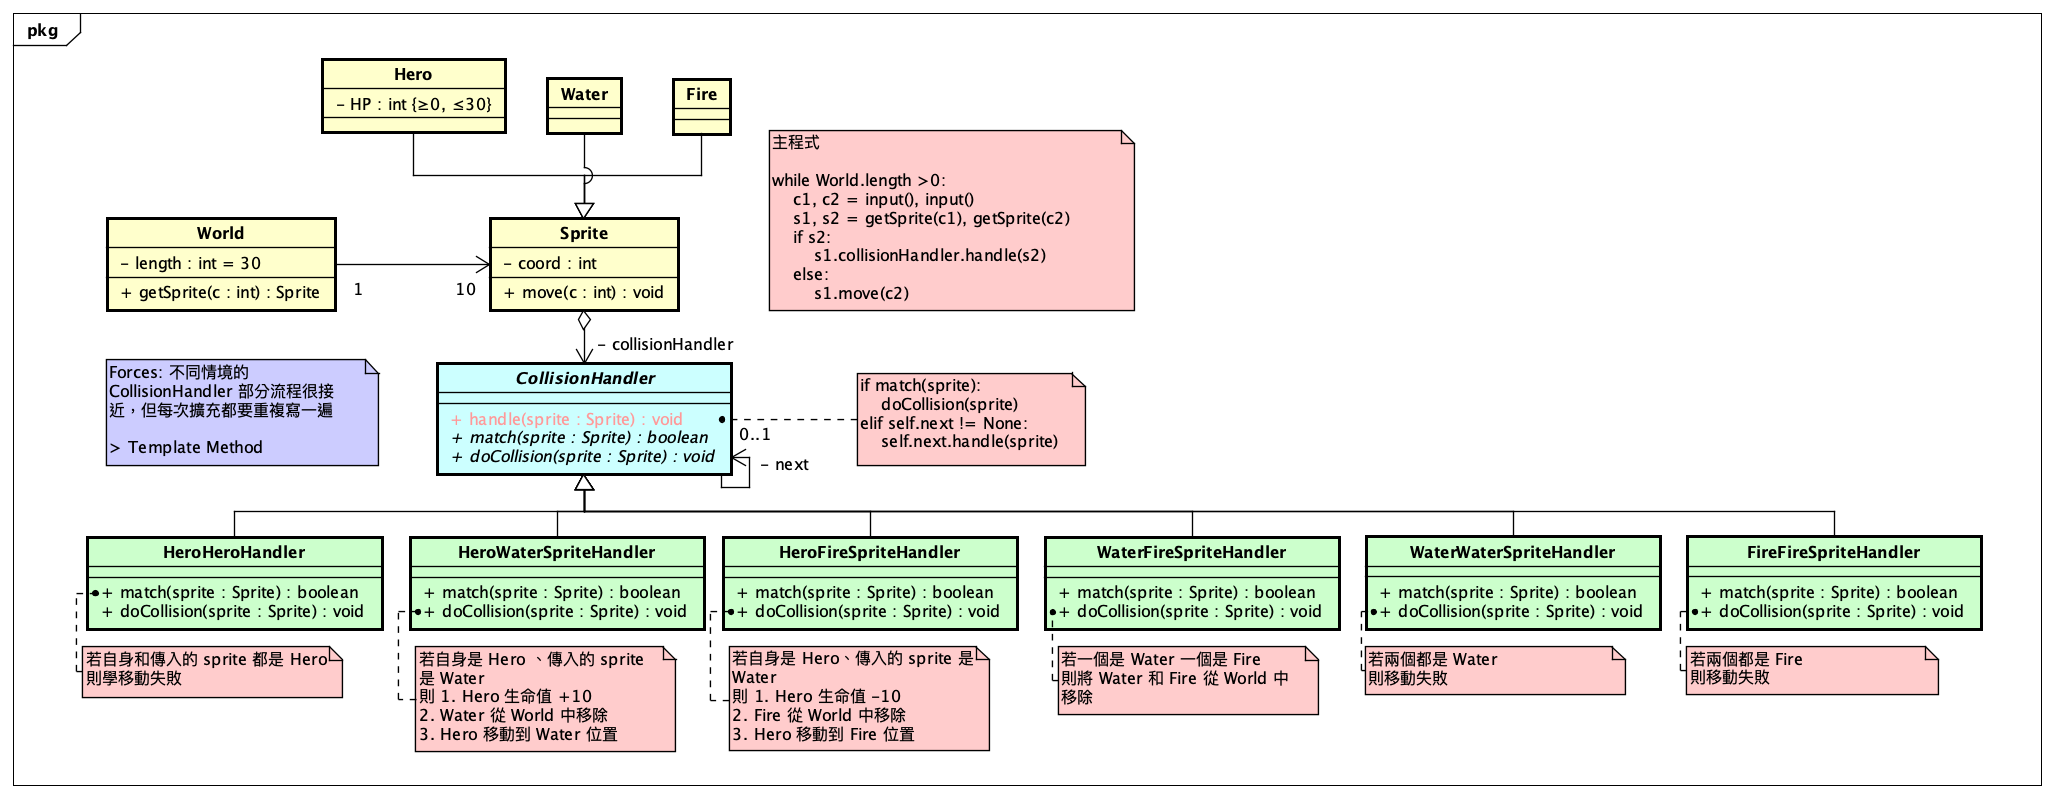
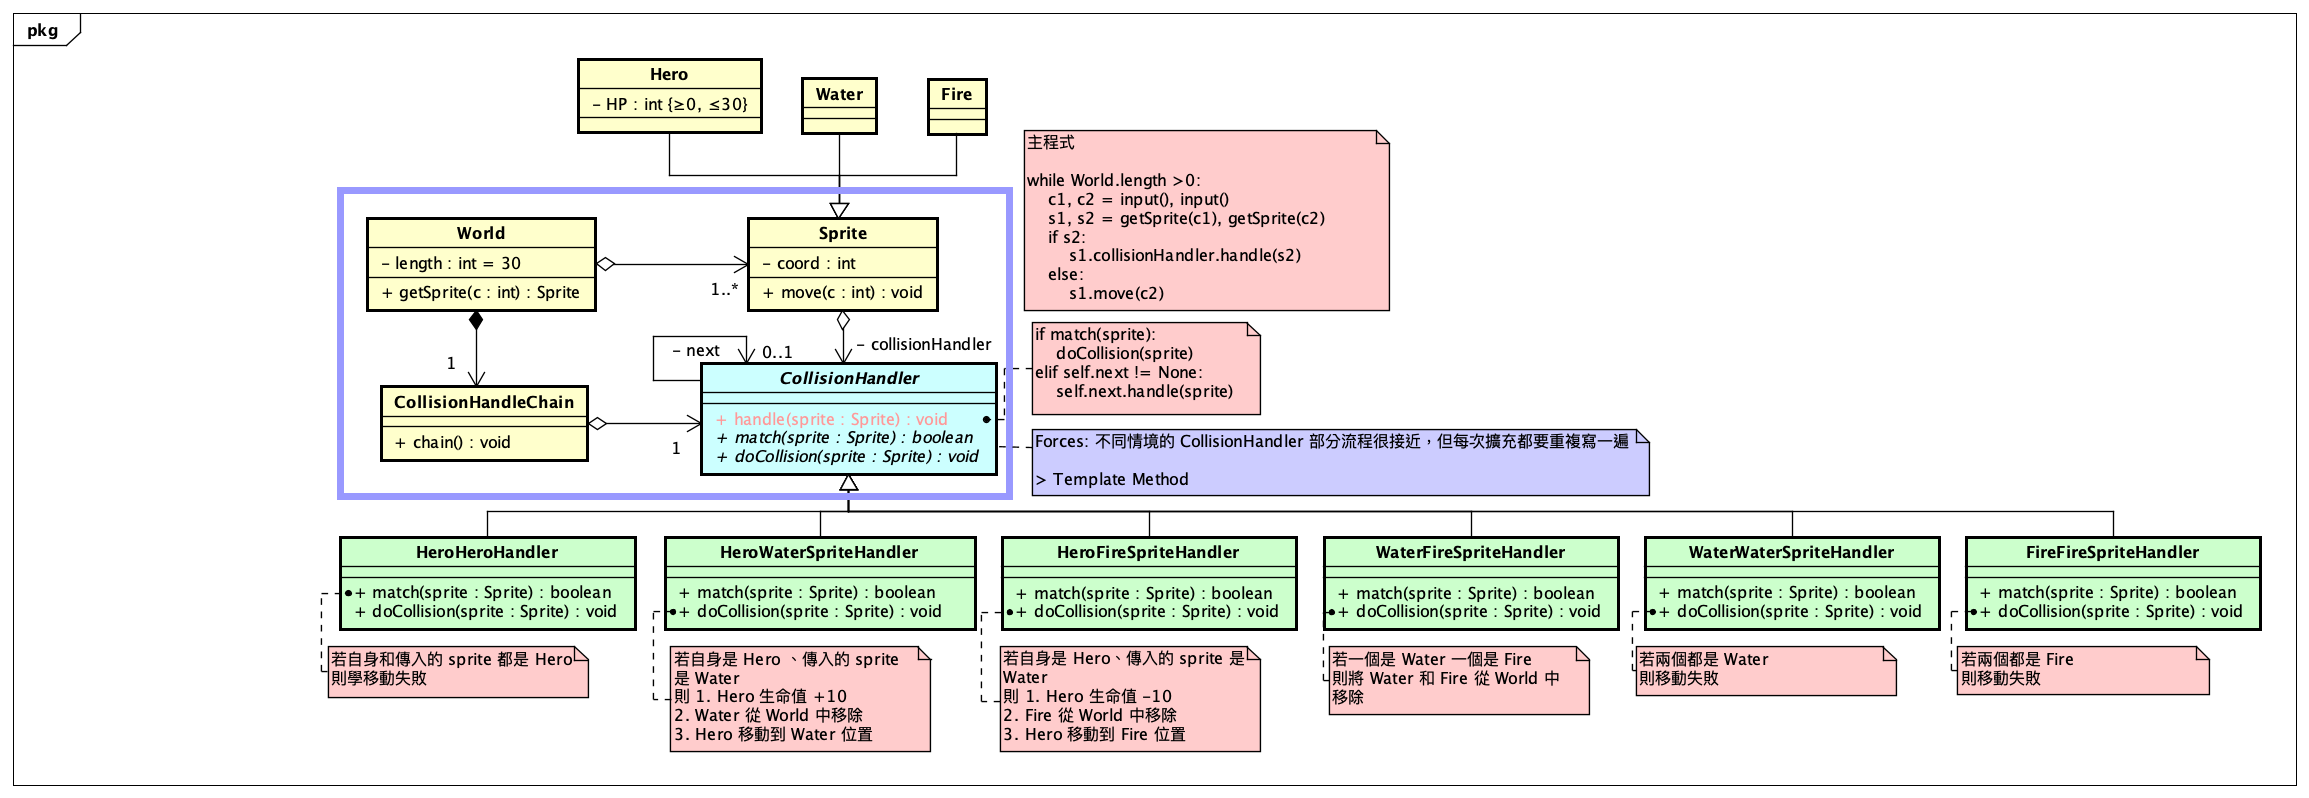
[code] Update 2.3.H

Changed region(s): [[0.0312, 0.0602, 0.9971, 0.9624], [0.9348, 0.812, 0.9659, 0.8722], [0.0, 0.0301, 0.0312, 0.0602]]

diff --git a/2.3.H/code/world.py b/2.3.H/code/world.py
@@ -1,7 +1,6 @@
 """定義世界資訊"""
-from typing import Union, Any
+from typing import Union
 from collections import defaultdict
-import numpy as np
 import random
 
 from sprite import Sprite, Hero, Water, Fire
@@ -13,18 +12,13 @@ class World:
 
     def __init__(self) -> None:
         self._length = 30
-        self._sprites = defaultdict(lambda: None)
-        self.collisionHandleChain = CollisionHandleChain()
-        self.collisionHandleChain.chain()
+        self._sprites = list()
+        self._sprites_position_dict = defaultdict(lambda: None)
+        self._collisionHandleChain = CollisionHandleChain()
+        self._collisionHandleChain.chain()
 
     def __repr__(self) -> str:
         return f"World ({self._length})"
-
-    def __getattr__(self, __name: str):
-        return self.__dict__[f"__{__name}"]
-
-    def __setattr__(self, __name: str, __value: Any) -> None:
-        self.__dict__[f"__{__name}"] = __value
 
     @property
     def length(self):
@@ -33,49 +27,62 @@ class World:
 
     @property
     def sprites(self):
-        """取得世界所有生物及其座標"""
+        """取得世界所有生物"""
         return self._sprites
+
+    @property
+    def sprites_position_dict(self):
+        """取得世界所有生物及其座標"""
+        return self._sprites_position_dict
 
     def init(self, mode: str) -> None:
         if mode == "random":
-            _positions = list(
-                set(
-                    np.random.randint(
-                        low=0,
-                        high=self._length - 1,
-                        size=random.randint(1, self._length - 1),
-                    ).tolist()
-                )
+            _positions = random.sample(
+                range(self._length - 1), random.randint(1, self._length - 1)
             )
             for i in _positions:
                 sprite_type = random.choice([Hero, Water, Fire])
-                c = sprite_type(coord=i)
-                self.add_sprite(coord=i, sprite=c)
+                self.add_sprite(sprite=sprite_type(coord=i))
         else:
             raise Warning("this mode hasn't been set before")
 
+        self.arrange_sprites()
+
     def get_sprite(self, coord: int) -> Union[Sprite, None]:
         """從座標取得生物"""
-        return self._sprites[coord]
+        return self._sprites_position_dict[coord]
 
-    def add_sprite(self, coord: int, sprite: Sprite) -> None:
-        """在指定坐標上放置生物"""
-        assert isinstance(coord, int) and coord >= 0 and coord < 30, TypeError(
-            "coord 須為 0 ~ 29 正整數"
+    def arrange_sprites(self) -> None:
+        """將串列中的生物位置轉成索引字典"""
+        self._sprites_position_dict = defaultdict(
+            lambda: None,
+            sorted({item.coord: item for item in self._sprites}.items(), reverse=False),
         )
-        if not self._sprites[coord]:
-            self._sprites[coord] = sprite
-        else:
-            raise Exception(f"{coord} already has a sprite: {sprite}")
+
+    def add_sprite(self, sprite: Sprite) -> None:
+        """加入生物到串列"""
+        self._sprites.append(sprite)
+        # """在指定坐標上放置生物"""
+        # position = sprite.coord
+        # if not self._sprites_position_dict[position]:
+        #     self._sprites_position_dict[position] = sprite
+        # else:
+        #     raise Exception(f"The position: {position} already has a sprite: {sprite}")
 
     def move_sprite(self, source_coord: int, target_coord: int):
-        if not self._sprites[target_coord]:
-            self._sprites[target_coord] = self._sprites[source_coord]
-            del self._sprites[source_coord]
+        """將生物移動到指定坐標上"""
+        source_sprite, target_sprite = (
+            self._sprites_position_dict[source_coord],
+            self._sprites_position_dict[target_coord],
+        )
+        if not target_sprite:
+            source_sprite.coord = target_coord
+            self._sprites_position_dict[target_coord] = source_sprite
+            self._sprites_position_dict[source_coord] = None
         else:
             raise Exception(
-                f"target_coord still has sprite: {self._sprites[target_coord]} ({target_coord})"
+                f"target_coord still has sprite: {target_sprite} ({target_coord})"
             )
 
     def remove_sprite(self, coord: int) -> None:
-        del self._sprites[coord]
+        del self._sprites_position_dict[coord]

diff --git a/2.3.H/code/collisionHandler.py b/2.3.H/code/collisionHandler.py
@@ -44,17 +44,36 @@ class HeroWaterHandler(CollisionHandler):
     def __init__(self) -> None:
         super().__init__()
 
-    def handle(
-        self, source_sprite: Sprite, target_sprite: Sprite, world: "World"
-    ) -> None:
-        if isinstance(source_sprite, Hero) and isinstance(target_sprite, Water):
-            source_sprite.HP += 10
-            target_coord = target_sprite.coord
-            world.remove_sprite(coord=target_coord)
+    def operation(
+        self, source_sprite: Sprite, target_sprite: Sprite, world: "World", move: bool
+    ):
+        source_sprite.HP += 10
+        target_coord = target_sprite.coord
+        world.remove_sprite(coord=target_coord)
+        if move:
             world.move_sprite(
                 source_coord=source_sprite.coord, target_coord=target_coord
             )
             source_sprite.coord = target_coord
+
+    def handle(
+        self, source_sprite: Sprite, target_sprite: Sprite, world: "World"
+    ) -> None:
+        if isinstance(source_sprite, Hero) and isinstance(target_sprite, Water):
+            self.operation(
+                source_sprite=source_sprite,
+                target_sprite=target_sprite,
+                world=world,
+                move=True,
+            )
+
+        elif isinstance(target_sprite, Hero) and isinstance(source_sprite, Water):
+            self.operation(
+                source_sprite=target_sprite,
+                target_sprite=source_sprite,
+                world=world,
+                move=False,
+            )
         else:
             self.next.handle(
                 source_sprite=source_sprite, target_sprite=target_sprite, world=world
@@ -65,17 +84,35 @@ class HeroFireHandler(CollisionHandler):
     def __init__(self) -> None:
         super().__init__()
 
-    def handle(
-        self, source_sprite: Sprite, target_sprite: Sprite, world: "World"
-    ) -> None:
-        if isinstance(source_sprite, Hero) and isinstance(target_sprite, Fire):
-            source_sprite.HP -= 10
-            target_coord = target_sprite.coord
-            world.remove_sprite(coord=target_coord)
+    def operation(
+        self, source_sprite: Sprite, target_sprite: Sprite, world: "World", move: bool
+    ):
+        source_sprite.HP -= 10
+        target_coord = target_sprite.coord
+        world.remove_sprite(coord=target_coord)
+        if move:
             world.move_sprite(
                 source_coord=source_sprite.coord, target_coord=target_coord
             )
             source_sprite.coord = target_coord
+
+    def handle(
+        self, source_sprite: Sprite, target_sprite: Sprite, world: "World"
+    ) -> None:
+        if isinstance(source_sprite, Hero) and isinstance(target_sprite, Fire):
+            self.operation(
+                source_sprite=source_sprite,
+                target_sprite=target_sprite,
+                world=world,
+                move=True,
+            )
+        elif isinstance(target_sprite, Hero) and isinstance(source_sprite, Fire):
+            self.operation(
+                source_sprite=target_sprite,
+                target_sprite=source_sprite,
+                world=world,
+                move=False,
+            )
         else:
             self.next.handle(
                 source_sprite=source_sprite, target_sprite=target_sprite, world=world

diff --git a/2.3.H/code/main.py b/2.3.H/code/main.py
@@ -6,18 +6,18 @@ from world import World
 if __name__ == "__main__":
     world = World()
     world.init(mode="random")
-    print(world.sprites)
+    print(world._sprites_position_dict)
 
-    while len(world.sprites):
+    while len(world._sprites_position_dict):
         c1 = int(input("Input a coord of a sprite (int): "))
         c2 = int(input("Move to another coord (int): "))
         s1, s2 = world.get_sprite(coord=c1), world.get_sprite(coord=c2)
         assert s1.coord == c1
         if s2 is not None:
-            world.collisionHandleChain.herohero.handle(
+            world._collisionHandleChain.herohero.handle(
                 source_sprite=s1, target_sprite=s2, world=world
             )
         else:
             world.move_sprite(source_coord=s1.coord, target_coord=c2)
 
-        print(world.sprites)
+        print(world._sprites_position_dict)

diff --git a/2.3.H/code/sprite.py b/2.3.H/code/sprite.py
@@ -14,12 +14,6 @@ class Sprite:
     def __repr__(self) -> str:
         return f"{type(self)} (x: {self._coord})"
 
-    def __getattr__(self, __name: str):
-        return self.__dict__[f"__{__name}"]
-
-    def __setattr__(self, __name: str, __value: Any) -> None:
-        self.__dict__[f"__{__name}"] = __value
-
     @property
     def coord(self):
         """取得生物座標"""
@@ -45,7 +39,11 @@ class Hero(Sprite):
 
     @HP.setter
     def HP(self, hp: int):
-        assert isinstance(hp, int) and hp >= 0 and hp <= 30
+        if hp < 0:
+            hp = 0
+        elif hp > 30:
+            hp = 30
+        assert isinstance(hp, int)
         self._HP = hp
 
 

diff --git a/2.3.H/README.md b/2.3.H/README.md
@@ -1,0 +1,51 @@
+# [2.3.H] 碰撞案例 (Chain of Responsibility 責任鏈模式)
+
+> Author: @A-baoYang (jyabaodsda)
+
+### Object Oriented Analysis & Design (OOA/D)
+
+![](336-2.3.H-OOAD.png)
+
+### Run 
+```bash
+cd MatchmakingSystem
+python main.py
+```
+
+- Logging
+
+```bash
+defaultdict(<function World.arrange_sprites.<locals>.<lambda> at 0x7f84ea9d29d0>, {1: <class 'sprite.Water'> (x: 1), 2: <class 'sprite.Fire'> (x: 2), 4: <class 'sprite.Hero'> (x: 4), 5: <class 'sprite.Fire'> (x: 5), 7: <class 'sprite.Hero'> (x: 7), 8: <class 'sprite.Fire'> (x: 8), 9: <class 'sprite.Water'> (x: 9), 10: <class 'sprite.Water'> (x: 10), 11: <class 'sprite.Fire'> (x: 11), 12: <class 'sprite.Fire'> (x: 12), 13: <class 'sprite.Water'> (x: 13), 14: <class 'sprite.Hero'> (x: 14), 15: <class 'sprite.Hero'> (x: 15), 16: <class 'sprite.Fire'> (x: 16), 17: <class 'sprite.Hero'> (x: 17), 19: <class 'sprite.Water'> (x: 19), 20: <class 'sprite.Fire'> (x: 20), 21: <class 'sprite.Fire'> (x: 21), 22: <class 'sprite.Fire'> (x: 22), 23: <class 'sprite.Hero'> (x: 23), 25: <class 'sprite.Hero'> (x: 25), 27: <class 'sprite.Water'> (x: 27), 28: <class 'sprite.Water'> (x: 28)})
+Input a coord of a sprite (int): 1
+Move to another coord (int): 4
+defaultdict(<function World.arrange_sprites.<locals>.<lambda> at 0x7f84ea9d29d0>, {2: <class 'sprite.Fire'> (x: 2), 4: None, 5: <class 'sprite.Fire'> (x: 5), 7: <class 'sprite.Hero'> (x: 7), 8: <class 'sprite.Fire'> (x: 8), 9: <class 'sprite.Water'> (x: 9), 10: <class 'sprite.Water'> (x: 10), 11: <class 'sprite.Fire'> (x: 11), 12: <class 'sprite.Fire'> (x: 12), 13: <class 'sprite.Water'> (x: 13), 14: <class 'sprite.Hero'> (x: 14), 15: <class 'sprite.Hero'> (x: 15), 16: <class 'sprite.Fire'> (x: 16), 17: <class 'sprite.Hero'> (x: 17), 19: <class 'sprite.Water'> (x: 19), 20: <class 'sprite.Fire'> (x: 20), 21: <class 'sprite.Fire'> (x: 21), 22: <class 'sprite.Fire'> (x: 22), 23: <class 'sprite.Hero'> (x: 23), 25: <class 'sprite.Hero'> (x: 25), 27: <class 'sprite.Water'> (x: 27), 28: <class 'sprite.Water'> (x: 28), 1: <class 'sprite.Hero'> (x: 1)})
+Input a coord of a sprite (int): ^CTraceback (most recent call last):
+  File "main.py", line 12, in <module>
+    c1 = int(input("Input a coord of a sprite (int): "))
+KeyboardInterrupt
+
+(base) jiunyiyangde-MacBook-Pro:code jiunyiyang$ python main.py 
+defaultdict(<function World.arrange_sprites.<locals>.<lambda> at 0x7fc686adce50>, {0: <class 'sprite.Hero'> (x: 0), 1: <class 'sprite.Hero'> (x: 1), 2: <class 'sprite.Water'> (x: 2), 3: <class 'sprite.Fire'> (x: 3), 4: <class 'sprite.Hero'> (x: 4), 7: <class 'sprite.Hero'> (x: 7), 8: <class 'sprite.Water'> (x: 8), 11: <class 'sprite.Fire'> (x: 11), 12: <class 'sprite.Fire'> (x: 12), 14: <class 'sprite.Water'> (x: 14), 17: <class 'sprite.Water'> (x: 17), 18: <class 'sprite.Fire'> (x: 18), 20: <class 'sprite.Fire'> (x: 20), 22: <class 'sprite.Water'> (x: 22), 23: <class 'sprite.Fire'> (x: 23), 24: <class 'sprite.Water'> (x: 24), 26: <class 'sprite.Water'> (x: 26)})
+Input a coord of a sprite (int): 2
+Move to another coord (int): 1
+defaultdict(<function World.arrange_sprites.<locals>.<lambda> at 0x7fc686adce50>, {0: <class 'sprite.Hero'> (x: 0), 1: None, 3: <class 'sprite.Fire'> (x: 3), 4: <class 'sprite.Hero'> (x: 4), 7: <class 'sprite.Hero'> (x: 7), 8: <class 'sprite.Water'> (x: 8), 11: <class 'sprite.Fire'> (x: 11), 12: <class 'sprite.Fire'> (x: 12), 14: <class 'sprite.Water'> (x: 14), 17: <class 'sprite.Water'> (x: 17), 18: <class 'sprite.Fire'> (x: 18), 20: <class 'sprite.Fire'> (x: 20), 22: <class 'sprite.Water'> (x: 22), 23: <class 'sprite.Fire'> (x: 23), 24: <class 'sprite.Water'> (x: 24), 26: <class 'sprite.Water'> (x: 26), 2: <class 'sprite.Hero'> (x: 2)})
+Input a coord of a sprite (int): ^[[A^CTraceback (most recent call last):
+  File "main.py", line 12, in <module>
+    c1 = int(input("Input a coord of a sprite (int): "))
+KeyboardInterrupt
+
+(base) jiunyiyangde-MacBook-Pro:code jiunyiyang$ python main.py 
+defaultdict(<function World.arrange_sprites.<locals>.<lambda> at 0x7f93976d29d0>, {0: <class 'sprite.Hero'> (x: 0), 1: <class 'sprite.Fire'> (x: 1), 2: <class 'sprite.Fire'> (x: 2), 3: <class 'sprite.Hero'> (x: 3), 5: <class 'sprite.Fire'> (x: 5), 6: <class 'sprite.Water'> (x: 6), 7: <class 'sprite.Fire'> (x: 7), 8: <class 'sprite.Water'> (x: 8), 9: <class 'sprite.Fire'> (x: 9), 10: <class 'sprite.Water'> (x: 10), 11: <class 'sprite.Water'> (x: 11), 14: <class 'sprite.Fire'> (x: 14), 15: <class 'sprite.Fire'> (x: 15), 16: <class 'sprite.Water'> (x: 16), 17: <class 'sprite.Water'> (x: 17), 18: <class 'sprite.Water'> (x: 18), 20: <class 'sprite.Hero'> (x: 20), 21: <class 'sprite.Hero'> (x: 21), 23: <class 'sprite.Water'> (x: 23), 25: <class 'sprite.Hero'> (x: 25), 26: <class 'sprite.Hero'> (x: 26), 27: <class 'sprite.Water'> (x: 27), 28: <class 'sprite.Fire'> (x: 28)})
+Input a coord of a sprite (int): 1
+Move to another coord (int): 0
+defaultdict(<function World.arrange_sprites.<locals>.<lambda> at 0x7f93976d29d0>, {0: <class 'sprite.Hero'> (x: 0), 2: <class 'sprite.Fire'> (x: 2), 3: <class 'sprite.Hero'> (x: 3), 5: <class 'sprite.Fire'> (x: 5), 6: <class 'sprite.Water'> (x: 6), 7: <class 'sprite.Fire'> (x: 7), 8: <class 'sprite.Water'> (x: 8), 9: <class 'sprite.Fire'> (x: 9), 10: <class 'sprite.Water'> (x: 10), 11: <class 'sprite.Water'> (x: 11), 14: <class 'sprite.Fire'> (x: 14), 15: <class 'sprite.Fire'> (x: 15), 16: <class 'sprite.Water'> (x: 16), 17: <class 'sprite.Water'> (x: 17), 18: <class 'sprite.Water'> (x: 18), 20: <class 'sprite.Hero'> (x: 20), 21: <class 'sprite.Hero'> (x: 21), 23: <class 'sprite.Water'> (x: 23), 25: <class 'sprite.Hero'> (x: 25), 26: <class 'sprite.Hero'> (x: 26), 27: <class 'sprite.Water'> (x: 27), 28: <class 'sprite.Fire'> (x: 28)})
+Input a coord of a sprite (int): 18
+Move to another coord (int): 20
+defaultdict(<function World.arrange_sprites.<locals>.<lambda> at 0x7f93976d29d0>, {0: <class 'sprite.Hero'> (x: 0), 2: <class 'sprite.Fire'> (x: 2), 3: <class 'sprite.Hero'> (x: 3), 5: <class 'sprite.Fire'> (x: 5), 6: <class 'sprite.Water'> (x: 6), 7: <class 'sprite.Fire'> (x: 7), 8: <class 'sprite.Water'> (x: 8), 9: <class 'sprite.Fire'> (x: 9), 10: <class 'sprite.Water'> (x: 10), 11: <class 'sprite.Water'> (x: 11), 14: <class 'sprite.Fire'> (x: 14), 15: <class 'sprite.Fire'> (x: 15), 16: <class 'sprite.Water'> (x: 16), 17: <class 'sprite.Water'> (x: 17), 20: <class 'sprite.Hero'> (x: 20), 21: <class 'sprite.Hero'> (x: 21), 23: <class 'sprite.Water'> (x: 23), 25: <class 'sprite.Hero'> (x: 25), 26: <class 'sprite.Hero'> (x: 26), 27: <class 'sprite.Water'> (x: 27), 28: <class 'sprite.Fire'> (x: 28)})
+Input a coord of a sprite (int): 0
+Move to another coord (int): 2
+defaultdict(<function World.arrange_sprites.<locals>.<lambda> at 0x7f93976d29d0>, {0: None, 3: <class 'sprite.Hero'> (x: 3), 5: <class 'sprite.Fire'> (x: 5), 6: <class 'sprite.Water'> (x: 6), 7: <class 'sprite.Fire'> (x: 7), 8: <class 'sprite.Water'> (x: 8), 9: <class 'sprite.Fire'> (x: 9), 10: <class 'sprite.Water'> (x: 10), 11: <class 'sprite.Water'> (x: 11), 14: <class 'sprite.Fire'> (x: 14), 15: <class 'sprite.Fire'> (x: 15), 16: <class 'sprite.Water'> (x: 16), 17: <class 'sprite.Water'> (x: 17), 20: <class 'sprite.Hero'> (x: 20), 21: <class 'sprite.Hero'> (x: 21), 23: <class 'sprite.Water'> (x: 23), 25: <class 'sprite.Hero'> (x: 25), 26: <class 'sprite.Hero'> (x: 26), 27: <class 'sprite.Water'> (x: 27), 28: <class 'sprite.Fire'> (x: 28), 2: <class 'sprite.Hero'> (x: 2)})
+Input a coord of a sprite (int): 1
+Move to another coord (int): 5
+
+```
